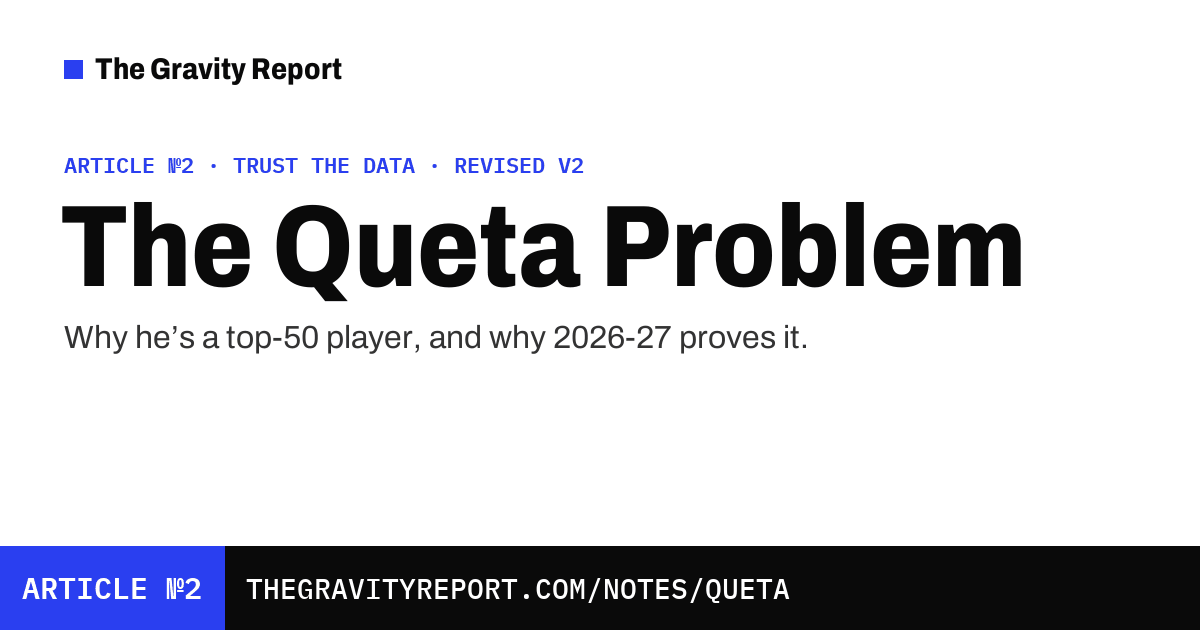
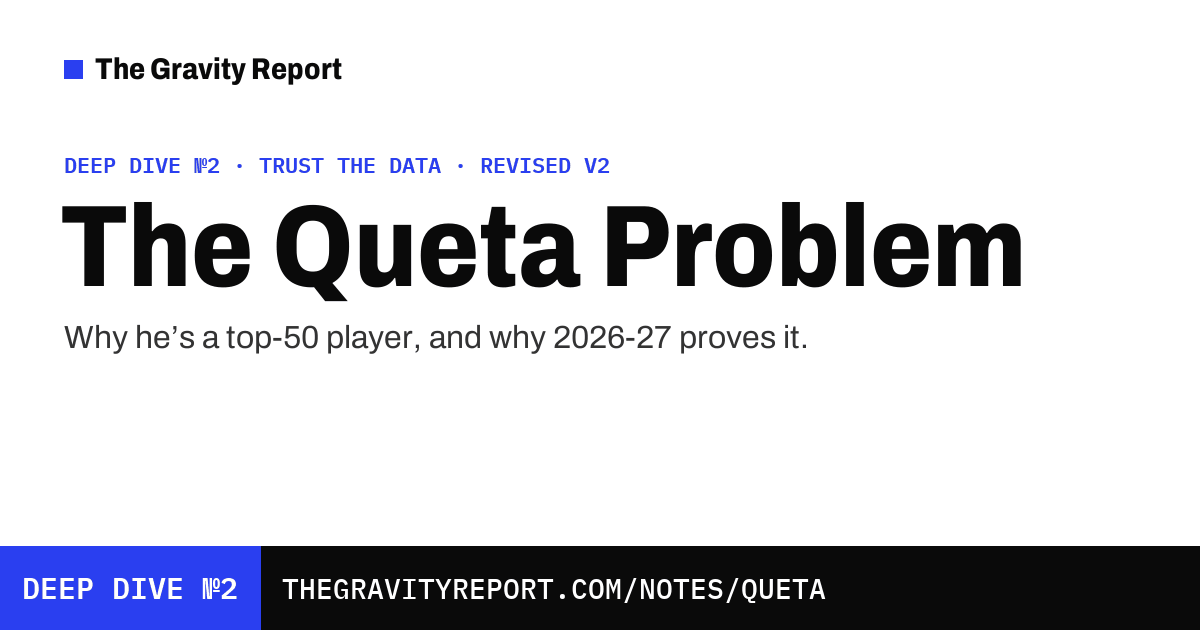
Two formats: Deep Dives (long, numbered) and Articles (short, web-first from content/short/*.md with probability bars); archive page split; labels on cards and kits
Published article text unchanged; only site labels change (Article №N -> Deep Dive №N in lists, cards and the homepage kicker).

Changed region(s): [[0.0, 0.8444, 0.6783, 1.0], [0.0308, 0.2413, 0.5242, 0.2714]]

diff --git a/articles/index.html b/articles/index.html
@@ -4,8 +4,8 @@
 <meta charset="utf-8">
 <meta name="viewport" content="width=device-width, initial-scale=1">
 <meta name="theme-color" content="#FFFFFF">
-<title>Articles — The Gravity Report</title>
-<meta name="description" content="Every Gravity Report article: plain-language NBA analysis with a registered forecast.">
+<title>Deep Dives and Articles — The Gravity Report</title>
+<meta name="description" content="Every Gravity Report piece: Deep Dives (long, with the full method) and Articles (short and fast), each with forecasts on the record.">
 <link rel="canonical" href="https://thegravityreport.com/articles/">
 <link rel="alternate" type="application/rss+xml" title="The Gravity Report" href="/feed.xml">
 <link rel="icon" href="/assets/favicon.svg" type="image/svg+xml">
@@ -14,8 +14,8 @@
 <link rel="stylesheet" href="/assets/site.css">
 <meta property="og:type" content="website">
 <meta property="og:site_name" content="The Gravity Report">
-<meta property="og:title" content="Articles — The Gravity Report">
-<meta property="og:description" content="Every Gravity Report article: plain-language NBA analysis with a registered forecast.">
+<meta property="og:title" content="Deep Dives and Articles — The Gravity Report">
+<meta property="og:description" content="Every Gravity Report piece: Deep Dives (long, with the full method) and Articles (short and fast), each with forecasts on the record.">
 <meta property="og:url" content="https://thegravityreport.com/articles/">
 <meta property="og:image" content="https://thegravityreport.com/cards/site.png">
 <meta property="og:image:width" content="1200">
@@ -27,10 +27,15 @@
 <div class="ticker"><a class="ticker-label" href="/the644/">THE 644</a><div class="ticker-view"><div class="ticker-track"><span>   <a href="/players/nikola-jokic/">1 JOKIĆ <b>97.8</b></a>   ·   <a href="/players/shai-gilgeous-alexander/">2 GILGEOUS-ALEXANDER <b>92.9</b></a>   ·   <a href="/players/victor-wembanyama/">3 WEMBANYAMA <b>85.7</b></a>   ·   <a href="/players/giannis-antetokounmpo/">4 ANTETOKOUNMPO <b>83.9</b></a>   ·   <a href="/players/luka-doncic/">5 DONČIĆ <b>83.0</b></a>   ·   <a href="/players/kawhi-leonard/">6 LEONARD <b>77.3</b></a>   ·   <a href="/players/cade-cunningham/">7 CUNNINGHAM <b>70.3</b></a>   ·   <a href="/players/karl-anthony-towns/">8 TOWNS <b>69.3</b></a>   ·   <a href="/players/donovan-mitchell/">9 MITCHELL <b>68.1</b></a>   ·   <a href="/players/tyrese-maxey/">10 MAXEY <b>67.3</b></a>   ·   <a href="/players/lamelo-ball/">11 BALL <b>66.8</b></a>   ·   <a href="/players/chet-holmgren/">12 HOLMGREN <b>66.6</b></a>   ·   <a href="/players/stephen-curry/">13 CURRY <b>66.5</b></a>   ·   <a href="/players/jalen-duren/">14 DUREN <b>65.9</b></a>   ·   <a href="/players/scottie-barnes/">15 BARNES <b>65.8</b></a></span><span aria-hidden="true">   1 JOKIĆ <b>97.8</b>   ·   2 GILGEOUS-ALEXANDER <b>92.9</b>   ·   3 WEMBANYAMA <b>85.7</b>   ·   4 ANTETOKOUNMPO <b>83.9</b>   ·   5 DONČIĆ <b>83.0</b>   ·   6 LEONARD <b>77.3</b>   ·   7 CUNNINGHAM <b>70.3</b>   ·   8 TOWNS <b>69.3</b>   ·   9 MITCHELL <b>68.1</b>   ·   10 MAXEY <b>67.3</b>   ·   11 BALL <b>66.8</b>   ·   12 HOLMGREN <b>66.6</b>   ·   13 CURRY <b>66.5</b>   ·   14 DUREN <b>65.9</b>   ·   15 BARNES <b>65.8</b></span></div></div></div>
 <main id="main">
 <div class="wrap">
-<section class="page-head"><div class="kicker">The archive</div><h1 class="h-xl">Articles</h1>
-<p class="lede">One player, one question, one forecast you can check. Every piece is an article typeset in LaTeX, not a research paper, and every revision ships with a public note.</p></section>
-<section class="sec"><div class="arch"><a href="/notes/kawhi/"><div class="meta">Article №4 · Oct 6, 2026 · 5 pages</div><div class="t">The Kawhi Anomaly</div><div class="d">The biggest rebound ever recorded by a 34-year-old.</div></a><a href="/notes/queta/"><div class="meta">Article №2 · Jul 10, 2026 · 10 pages</div><div class="t">The Queta Problem</div><div class="d">Why he’s a top-50 player, and why 2026-27 proves it.</div></a><a href="/notes/morant/"><div class="meta">Article №1 · Jul 10, 2026 · 12 pages</div><div class="t">The Rise and Fall of Ja Morant</div><div class="d">A statistical account, 2017–2026.</div></a><a href="/notes/spec/"><div class="meta">The Model · technical document · Jul 10, 2026 · 5 pages</div><div class="t">The GRAVITY Specification</div><div class="d">Every equation and every weight, published in full.</div></a></div>
+<section class="page-head"><div class="kicker">The archive</div><h1 class="h-xl">Everything we've published</h1>
+<p class="lede">Two formats. <b>Deep Dives</b> take one player and one question all the way down, typeset in LaTeX with the full method. <b>Articles</b> are short and fast. Both put their forecasts on the record, and every revision ships with a public note.</p>
+<div class="btn-row"><a class="btn-line" href="#deep-dives">Deep Dives (3)</a></div></section>
+<section class="sec" id="deep-dives"><div class="kicker">Deep Dives</div><h2 class="h-m">One player, one question, all the way down</h2>
+<p class="lede" style="margin:10px 0 18px;font-size:16px">Typeset in LaTeX, with the method, the tables and a registered forecast. Not research papers: independent analysis, revised in public.</p>
+<div class="arch"><a href="/notes/kawhi/"><div class="meta">Deep Dive №4 · Oct 6, 2026 · 5 pages</div><div class="t">The Kawhi Anomaly</div><div class="d">The biggest rebound ever recorded by a 34-year-old.</div></a><a href="/notes/queta/"><div class="meta">Deep Dive №2 · Jul 10, 2026 · 10 pages</div><div class="t">The Queta Problem</div><div class="d">Why he’s a top-50 player, and why 2026-27 proves it.</div></a><a href="/notes/morant/"><div class="meta">Deep Dive №1 · Jul 10, 2026 · 12 pages</div><div class="t">The Rise and Fall of Ja Morant</div><div class="d">A statistical account, 2017–2026.</div></a></div>
 <p class="muted" style="margin-top:18px"><b style="color:var(--ink)">On the desk:</b> Jalen Duren, Nikola Jokić, Cooper Flagg.</p></section>
+
+<section class="sec"><div class="kicker">The Model</div><div class="arch" style="margin-top:14px"><a href="/notes/spec/"><div class="meta">The Model · Version 3 · Jul 10, 2026 · 5 pages</div><div class="t">The GRAVITY Specification</div><div class="d">Every equation and every weight, published in full.</div></a></div></section>
 </div>
 </main>
 <footer class="site-foot" id="about-foot"><div class="wrap"><div class="fb"><b>The Gravity Report</b><br>GRAVITY: Game-Rate Adjusted Value, Impact, Talent, and Yield. How good, times how often.<br>Articles are typeset in LaTeX and revised in public. An article, not a research paper.</div><nav aria-label="Footer"><a href="/model/">Model</a><a href="/ledger/">Ledger</a><a href="/data/">Data</a><a href="/corrections/">Corrections</a><a href="/about/">About</a><a href="/feed.xml">RSS</a><a href="/classic/">The original inbox edition</a></nav></div></footer>

diff --git a/players/kawhi-leonard/index.html b/players/kawhi-leonard/index.html
@@ -39,7 +39,7 @@
 </section>
 <section class="sec"><h2 class="h-m" style="margin-top:0">The impact numbers</h2><p class="lede" style="margin-bottom:18px">The public stats behind the score, 2025–26 regular season (Basketball Reference).</p><div class="statgrid"><div><b>65</b><span>Games</span><em>Regular-season games played.</em></div><div><b>2,085</b><span>Minutes</span><em>Regular-season minutes played.</em></div><div><b>+8.0</b><span>Box Plus/Minus</span><em>Points per 100 possessions he adds over an average player, estimated from the box score. 0 is average.</em></div><div><b>+7.4</b><span>Offensive BPM</span><em>The offense half of Box Plus/Minus.</em></div><div><b>+0.6</b><span>Defensive BPM</span><em>The defense half of Box Plus/Minus.</em></div><div><b>5.3</b><span>VORP</span><em>Value over a replacement-level player, from Box Plus/Minus and minutes.</em></div><div><b>.212</b><span>Win Shares per 48</span><em>Wins credited to him per 48 minutes played.</em></div><div><b>.629</b><span>True shooting</span><em>Scoring efficiency that counts threes and free throws.</em></div><div><b>33.5%</b><span>Usage</span><em>Share of his team&#x27;s possessions he finishes while on the floor.</em></div><div><b>+14.5</b><span>On/off</span><em>His team&#x27;s point margin per 100 possessions with him on the court minus with him off. Basketball Reference, raw.</em></div></div></section>
 <section class="sec"><h2 class="h-m" style="margin-top:0">2025–26 season box</h2><div class="statgrid"><div><b>32.1</b><span>Minutes per game</span></div><div><b>27.9</b><span>Points per game</span></div><div><b>6.4</b><span>Rebounds per game</span></div><div><b>3.6</b><span>Assists per game</span></div><div><b>1.9</b><span>Steals per game</span></div><div><b>0.4</b><span>Blocks per game</span></div><div><b>50.5%</b><span>FG%</span><em>Share of field-goal attempts made.</em></div><div><b>38.7%</b><span>3P%</span><em>Share of three-point attempts made.</em></div><div><b>89.2%</b><span>FT%</span><em>Share of free throws made.</em></div></div></section>
-<section class="sec"><h2 class="h-m" style="margin-top:0">Featured in</h2><div class="arch"><a href="/notes/kawhi/"><div class="meta">№4 · Oct 6, 2026</div><div class="t">The Kawhi Anomaly</div><div class="d">The biggest rebound ever recorded by a 34-year-old.</div></a></div></section><section class="sec"><h2 class="h-m" style="margin-top:0">Open forecasts about him</h2><div class="lrows"><div class="lrow"><span class="lrow-id">K1</span><span class="lrow-claim">Kawhi Leonard stays top 8 in The 644</span><div class="pbar" role="img" aria-label="50% chance; the tick marks 50%, a coin flip"><div class="pbar-fill" style="width:50%"></div><div class="pbar-tick"></div></div><b class="pbar-pct">50%</b><span class="lrow-when">grades 2027-07</span></div><div class="lrow"><span class="lrow-id">K3</span><span class="lrow-claim">Kawhi finishes top 8 in Box Plus/Minus<small>players with 1,500+ minutes, Basketball Reference</small></span><div class="pbar" role="img" aria-label="30% chance; the tick marks 50%, a coin flip"><div class="pbar-fill" style="width:30%"></div><div class="pbar-tick"></div></div><b class="pbar-pct">30%</b><span class="lrow-when">grades 2027-04</span></div><div class="lrow"><span class="lrow-id">K4</span><span class="lrow-claim">Kawhi&#x27;s usage stays at 30% or more<small>Void under 1,000 minutes</small></span><div class="pbar" role="img" aria-label="60% chance; the tick marks 50%, a coin flip"><div class="pbar-fill" style="width:60%"></div><div class="pbar-tick"></div></div><b class="pbar-pct">60%</b><span class="lrow-when">grades 2027-04</span></div><div class="lrow"><span class="lrow-id">K5</span><span class="lrow-claim">Kawhi&#x27;s true shooting falls below .610<small>He shot .629 last season. Void under 1,000 minutes</small></span><div class="pbar" role="img" aria-label="65% chance; the tick marks 50%, a coin flip"><div class="pbar-fill" style="width:65%"></div><div class="pbar-tick"></div></div><b class="pbar-pct">65%</b><span class="lrow-when">grades 2027-04</span></div></div><a class="more" href="/ledger/">How forecasts are graded</a></section>
+<section class="sec"><h2 class="h-m" style="margin-top:0">Featured in</h2><div class="arch"><a href="/notes/kawhi/"><div class="meta">Deep Dive №4 · Oct 6, 2026</div><div class="t">The Kawhi Anomaly</div><div class="d">The biggest rebound ever recorded by a 34-year-old.</div></a></div></section><section class="sec"><h2 class="h-m" style="margin-top:0">Open forecasts about him</h2><div class="lrows"><div class="lrow"><span class="lrow-id">K1</span><span class="lrow-claim">Kawhi Leonard stays top 8 in The 644</span><div class="pbar" role="img" aria-label="50% chance; the tick marks 50%, a coin flip"><div class="pbar-fill" style="width:50%"></div><div class="pbar-tick"></div></div><b class="pbar-pct">50%</b><span class="lrow-when">grades 2027-07</span></div><div class="lrow"><span class="lrow-id">K3</span><span class="lrow-claim">Kawhi finishes top 8 in Box Plus/Minus<small>players with 1,500+ minutes, Basketball Reference</small></span><div class="pbar" role="img" aria-label="30% chance; the tick marks 50%, a coin flip"><div class="pbar-fill" style="width:30%"></div><div class="pbar-tick"></div></div><b class="pbar-pct">30%</b><span class="lrow-when">grades 2027-04</span></div><div class="lrow"><span class="lrow-id">K4</span><span class="lrow-claim">Kawhi&#x27;s usage stays at 30% or more<small>Void under 1,000 minutes</small></span><div class="pbar" role="img" aria-label="60% chance; the tick marks 50%, a coin flip"><div class="pbar-fill" style="width:60%"></div><div class="pbar-tick"></div></div><b class="pbar-pct">60%</b><span class="lrow-when">grades 2027-04</span></div><div class="lrow"><span class="lrow-id">K5</span><span class="lrow-claim">Kawhi&#x27;s true shooting falls below .610<small>He shot .629 last season. Void under 1,000 minutes</small></span><div class="pbar" role="img" aria-label="65% chance; the tick marks 50%, a coin flip"><div class="pbar-fill" style="width:65%"></div><div class="pbar-tick"></div></div><b class="pbar-pct">65%</b><span class="lrow-when">grades 2027-04</span></div></div><a class="more" href="/ledger/">How forecasts are graded</a></section>
 <section class="sec"><nav class="pn" aria-label="Neighbours in the ranking"><a href="/players/luka-doncic/">← #5 Luka Dončić</a><a href="/the644/">All 644</a><a href="/players/cade-cunningham/">#7 Cade Cunningham →</a></nav></section>
 </div>
 </main>

diff --git a/players/neemias-queta/index.html b/players/neemias-queta/index.html
@@ -39,7 +39,7 @@
 </section>
 <section class="sec"><h2 class="h-m" style="margin-top:0">The impact numbers</h2><p class="lede" style="margin-bottom:18px">The public stats behind the score, 2025–26 regular season (Basketball Reference).</p><div class="statgrid"><div><b>76</b><span>Games</span><em>Regular-season games played.</em></div><div><b>1,926</b><span>Minutes</span><em>Regular-season minutes played.</em></div><div><b>+2.8</b><span>Box Plus/Minus</span><em>Points per 100 possessions he adds over an average player, estimated from the box score. 0 is average.</em></div><div><b>+0.9</b><span>Offensive BPM</span><em>The offense half of Box Plus/Minus.</em></div><div><b>+2.0</b><span>Defensive BPM</span><em>The defense half of Box Plus/Minus.</em></div><div><b>2.4</b><span>VORP</span><em>Value over a replacement-level player, from Box Plus/Minus and minutes.</em></div><div><b>.224</b><span>Win Shares per 48</span><em>Wins credited to him per 48 minutes played.</em></div><div><b>.674</b><span>True shooting</span><em>Scoring efficiency that counts threes and free throws.</em></div><div><b>14.7%</b><span>Usage</span><em>Share of his team&#x27;s possessions he finishes while on the floor.</em></div><div><b>+9.8</b><span>On/off</span><em>His team&#x27;s point margin per 100 possessions with him on the court minus with him off. Basketball Reference, raw.</em></div></div><p class="small" style="margin-top:14px">2026 playoffs: 152 minutes, Box Plus/Minus +1.2.</p></section>
 <section class="sec"><h2 class="h-m" style="margin-top:0">2025–26 season box</h2><div class="statgrid"><div><b>25.3</b><span>Minutes per game</span></div><div><b>10.2</b><span>Points per game</span></div><div><b>8.4</b><span>Rebounds per game</span></div><div><b>1.7</b><span>Assists per game</span></div><div><b>0.8</b><span>Steals per game</span></div><div><b>1.3</b><span>Blocks per game</span></div><div><b>65.3%</b><span>FG%</span><em>Share of field-goal attempts made.</em></div><div><b>12.5%</b><span>3P%</span><em>Share of three-point attempts made.</em></div><div><b>70.3%</b><span>FT%</span><em>Share of free throws made.</em></div></div></section>
-<section class="sec"><h2 class="h-m" style="margin-top:0">Featured in</h2><div class="arch"><a href="/notes/queta/"><div class="meta">№2 · Jul 10, 2026</div><div class="t">The Queta Problem</div><div class="d">Twice waived, 39th pick, #41 in The 644. Why he&#x27;s a top-50 player.</div></a></div></section><section class="sec"><h2 class="h-m" style="margin-top:0">Open forecasts about him</h2><div class="lrows"><div class="lrow"><span class="lrow-id">2</span><span class="lrow-claim">Neemias Queta finishes top 50 in The 644</span><div class="pbar" role="img" aria-label="75% chance; the tick marks 50%, a coin flip"><div class="pbar-fill" style="width:75%"></div><div class="pbar-tick"></div></div><b class="pbar-pct">75%</b><span class="lrow-when">grades 2027-07</span></div><div class="lrow"><span class="lrow-id">2b</span><span class="lrow-claim">Queta finishes top 25 in The 644</span><div class="pbar" role="img" aria-label="40% chance; the tick marks 50%, a coin flip"><div class="pbar-fill" style="width:40%"></div><div class="pbar-tick"></div></div><b class="pbar-pct">40%</b><span class="lrow-when">grades 2027-07</span></div></div><a class="more" href="/ledger/">How forecasts are graded</a></section>
+<section class="sec"><h2 class="h-m" style="margin-top:0">Featured in</h2><div class="arch"><a href="/notes/queta/"><div class="meta">Deep Dive №2 · Jul 10, 2026</div><div class="t">The Queta Problem</div><div class="d">Twice waived, 39th pick, #41 in The 644. Why he&#x27;s a top-50 player.</div></a></div></section><section class="sec"><h2 class="h-m" style="margin-top:0">Open forecasts about him</h2><div class="lrows"><div class="lrow"><span class="lrow-id">2</span><span class="lrow-claim">Neemias Queta finishes top 50 in The 644</span><div class="pbar" role="img" aria-label="75% chance; the tick marks 50%, a coin flip"><div class="pbar-fill" style="width:75%"></div><div class="pbar-tick"></div></div><b class="pbar-pct">75%</b><span class="lrow-when">grades 2027-07</span></div><div class="lrow"><span class="lrow-id">2b</span><span class="lrow-claim">Queta finishes top 25 in The 644</span><div class="pbar" role="img" aria-label="40% chance; the tick marks 50%, a coin flip"><div class="pbar-fill" style="width:40%"></div><div class="pbar-tick"></div></div><b class="pbar-pct">40%</b><span class="lrow-when">grades 2027-07</span></div></div><a class="more" href="/ledger/">How forecasts are graded</a></section>
 <section class="sec"><nav class="pn" aria-label="Neighbours in the ranking"><a href="/players/domantas-sabonis/">← #40 Domantas Sabonis</a><a href="/the644/">All 644</a><a href="/players/ausar-thompson/">#42 Ausar Thompson →</a></nav></section>
 </div>
 </main>

diff --git a/players/ja-morant/index.html b/players/ja-morant/index.html
@@ -39,7 +39,7 @@
 </section>
 <section class="sec"><h2 class="h-m" style="margin-top:0">The impact numbers</h2><p class="lede" style="margin-bottom:18px">The public stats behind the score, 2025–26 regular season (Basketball Reference).</p><div class="statgrid"><div><b>20</b><span>Games</span><em>Regular-season games played.</em></div><div><b>569</b><span>Minutes</span><em>Regular-season minutes played.</em></div><div><b>−1.5</b><span>Box Plus/Minus</span><em>Points per 100 possessions he adds over an average player, estimated from the box score. 0 is average.</em></div><div><b>+0.5</b><span>Offensive BPM</span><em>The offense half of Box Plus/Minus.</em></div><div><b>−2.0</b><span>Defensive BPM</span><em>The defense half of Box Plus/Minus.</em></div><div><b>0.1</b><span>VORP</span><em>Value over a replacement-level player, from Box Plus/Minus and minutes.</em></div><div><b>.024</b><span>Win Shares per 48</span><em>Wins credited to him per 48 minutes played.</em></div><div><b>.521</b><span>True shooting</span><em>Scoring efficiency that counts threes and free throws.</em></div><div><b>32.5%</b><span>Usage</span><em>Share of his team&#x27;s possessions he finishes while on the floor.</em></div><div><b>+1.7</b><span>On/off</span><em>His team&#x27;s point margin per 100 possessions with him on the court minus with him off. Basketball Reference, raw.</em></div></div></section>
 <section class="sec"><h2 class="h-m" style="margin-top:0">2025–26 season box</h2><div class="statgrid"><div><b>28.5</b><span>Minutes per game</span></div><div><b>19.5</b><span>Points per game</span></div><div><b>3.3</b><span>Rebounds per game</span></div><div><b>8.1</b><span>Assists per game</span></div><div><b>1.0</b><span>Steals per game</span></div><div><b>0.3</b><span>Blocks per game</span></div><div><b>41.0%</b><span>FG%</span><em>Share of field-goal attempts made.</em></div><div><b>23.5%</b><span>3P%</span><em>Share of three-point attempts made.</em></div><div><b>89.7%</b><span>FT%</span><em>Share of free throws made.</em></div></div></section>
-<section class="sec"><h2 class="h-m" style="margin-top:0">Featured in</h2><div class="arch"><a href="/notes/morant/"><div class="meta">№1 · Jul 10, 2026</div><div class="t">The Rise and Fall of Ja Morant</div><div class="d">From the 97th percentile to 79 of 246 games.</div></a></div></section>
+<section class="sec"><h2 class="h-m" style="margin-top:0">Featured in</h2><div class="arch"><a href="/notes/morant/"><div class="meta">Deep Dive №1 · Jul 10, 2026</div><div class="t">The Rise and Fall of Ja Morant</div><div class="d">From the 97th percentile to 79 of 246 games.</div></a></div></section>
 <section class="sec"><nav class="pn" aria-label="Neighbours in the ranking"><a href="/players/tari-eason/">← #139 Tari Eason</a><a href="/the644/">All 644</a><a href="/players/coby-white/">#141 Coby White →</a></nav></section>
 </div>
 </main>

diff --git a/index.html b/index.html
@@ -38,7 +38,7 @@
 <div class="wrap">
 <section class="sec"><div class="split">
 <article class="col-2">
-<div class="kicker">Article №4 · Preseason 2026–27</div>
+<div class="kicker">Deep Dive №4 · Preseason 2026–27</div>
 <h1 class="h-xl">The Kawhi Anomaly</h1>
 <p class="dek">The biggest rebound ever recorded by a 34-year-old. Late surges usually fade. Which half of his will last?</p>
 <div class="lead-cols"><p>Kawhi Leonard went from a good starter to the fifth-best player in the league per minute, at 34. No player 34 or older has ever jumped that far in one season.</p><p>Eight players have surged to star level after 31. None kept three-quarters of the gain the next year. His bigger role usually lasts. His hot shooting usually doesn&#x27;t.</p></div>
@@ -64,7 +64,7 @@
 <div class="kicker">The archive</div>
 <h2 class="h-m">Articles</h2>
 <p class="lede" style="margin:10px 0 18px;font-size:16px">Written in plain language, typeset in LaTeX, revised in public.</p>
-<div class="arch"><a href="/notes/kawhi/"><div class="meta">№4 · Oct 6, 2026</div><div class="t">The Kawhi Anomaly</div><div class="d">The biggest rebound ever recorded by a 34-year-old.</div></a><a href="/notes/queta/"><div class="meta">№2 · Jul 10, 2026</div><div class="t">The Queta Problem</div><div class="d">Twice waived, 39th pick, #41 in The 644. Why he&#x27;s a top-50 player.</div></a><a href="/notes/morant/"><div class="meta">№1 · Jul 10, 2026</div><div class="t">The Rise and Fall of Ja Morant</div><div class="d">From the 97th percentile to 79 of 246 games.</div></a><a href="/notes/spec/"><div class="meta">The Model · Version 3</div><div class="t">The GRAVITY Specification</div><div class="d">Every equation and every weight, published in full.</div></a></div>
+<div class="arch"><a href="/notes/kawhi/"><div class="meta">Deep Dive №4 · Oct 6, 2026</div><div class="t">The Kawhi Anomaly</div><div class="d">The biggest rebound ever recorded by a 34-year-old.</div></a><a href="/notes/queta/"><div class="meta">Deep Dive №2 · Jul 10, 2026</div><div class="t">The Queta Problem</div><div class="d">Twice waived, 39th pick, #41 in The 644. Why he&#x27;s a top-50 player.</div></a><a href="/notes/morant/"><div class="meta">Deep Dive №1 · Jul 10, 2026</div><div class="t">The Rise and Fall of Ja Morant</div><div class="d">From the 97th percentile to 79 of 246 games.</div></a><a href="/notes/spec/"><div class="meta">The Model · Version 3</div><div class="t">The GRAVITY Specification</div><div class="d">Every equation and every weight, published in full.</div></a></div>
 <p style="margin:16px 0 0;font-size:15px" class="muted"><b style="color:var(--ink)">On the desk:</b> Jalen Duren, Nikola Jokić, Cooper Flagg.</p>
 </div>
 </div></section>

diff --git a/assets/site.css b/assets/site.css
@@ -230,3 +230,12 @@ a:hover{color:var(--accent)}
   .rank-list .nm{font-size:17px}
   .p-score{text-align:left}
 }
+
+/* ---------- short articles ---------- */
+.paper.short h2{margin-top:44px;padding-top:18px;border-top:2px solid var(--ink)}
+.call{padding:16px 0;border-bottom:1px solid var(--rule-lt)}
+.call-claim{font-size:19px;font-weight:700;line-height:1.35}
+.call .pbar-wrap{max-width:560px}
+.call-note{margin:8px 0 0;font-size:16px;line-height:1.6;color:var(--ink2)}
+sup a.src{font-family:var(--mono);font-size:11px;text-decoration:none;color:var(--accent);padding:0 1px}
+sup a.src:hover{text-decoration:underline}

diff --git a/scripts/build_site.py b/scripts/build_site.py
@@ -27,6 +27,63 @@ def load(rel):
 
 SITE = load("content/site.json")
 ARTICLES = load("content/articles.json")
+
+
+def read_short(path):
+    """A short article: a JSON header between '---' lines, then a tiny markup:
+    '## Heading', blank-line-separated paragraphs, and '!call 25% | claim | note' lines.
+    Inline sources: [n](https://...) become superscript links."""
+    text = open(path, encoding="utf-8").read()
+    _, head, body = text.split("---\n", 2)
+    a = json.loads(head)
+    a.setdefault("kind", "article")
+    a["format"] = "short"
+    a["web"] = f"/articles/{a['slug']}/"
+    blocks, para = [], []
+
+    def flush():
+        if para:
+            blocks.append({"t": "p", "text": " ".join(para)})
+            para.clear()
+    for line in body.splitlines():
+        ln = line.strip()
+        if not ln:
+            flush()
+        elif ln.startswith("## "):
+            flush()
+            blocks.append({"t": "h2", "text": ln[3:]})
+        elif ln.startswith("!call "):
+            flush()
+            pct, claim, note = (x.strip() for x in ln[6:].split("|", 2))
+            blocks.append({"t": "call", "p": int(pct.rstrip("%")), "claim": claim, "note": note})
+        else:
+            para.append(ln)
+    flush()
+    a["blocks"] = blocks
+    words = sum(len(re.sub(r"\[(\d+)\]\([^)]*\)", "", b.get("text", "") + " " + b.get("claim", "") + " " + b.get("note", "")).split())
+                for b in blocks)
+    a["read_min"] = max(1, round(words / 220))
+    a.setdefault("pages", None)
+    return a
+
+
+def load_shorts():
+    out = []
+    dirs = [os.path.join(ROOT, "content", "short")]
+    if os.environ.get("GR_DRAFTS"):
+        dirs.append(os.environ["GR_DRAFTS"])
+    for d in dirs:
+        if os.path.isdir(d):
+            for f in sorted(os.listdir(d)):
+                if f.endswith(".md"):
+                    out.append(read_short(os.path.join(d, f)))
+    return out
+
+
+_ALL = ARTICLES + load_shorts()
+# newest first; same-day pieces by number, highest first; the model doc last
+ARTICLES = (sorted([a for a in _ALL if a["kind"] == "article"], key=lambda a: (a["date"], a.get("n") or 0), reverse=True)
+            + [a for a in _ALL if a["kind"] != "article"])
 LEDGER = load("content/ledger.json")
 T644 = load("content/the644.json")
 MSGS = load("content/legacy/messages.json")["M"]
@@ -317,13 +374,24 @@ def subscribe_block():
             f'<p class="lede" style="margin-top:10px">{e(SITE["newsletter_note"])}</p></div>{form}</div></section>')
 
 
+def series_label(a):
+    if a["kind"] != "article":
+        return "The Model · Version 3"
+    if a.get("format") == "short":
+        return "Article"
+    return f'Deep Dive №{a["n"]}'
+
+
+def length_label(a):
+    if a.get("format") == "short":
+        return f'{a["read_min"]}-minute read'
+    return f'{a["pages"]} pages'
+
+
 def archive_links(items):
     out = []
     for a in items:
-        if a["kind"] == "article":
-            meta = f'№{a["n"]} · {short_date(a["date"])}'
-        else:
-            meta = "The Model · Version 3"
+        meta = f'{series_label(a)} · {short_date(a["date"])}' if a["kind"] == "article" else series_label(a)
         out.append(f'<a href="{a["web"]}"><div class="meta">{e(meta)}</div><div class="t">{e(a["title"])}</div>'
                    f'<div class="d">{e(a["teaser"])}</div></a>')
     return '<div class="arch">' + "".join(out) + "</div>"
@@ -341,12 +409,22 @@ def kawhi_stats(p):
 # ---------------------------------------------------------------- pages
 
 def build_home():
-    lead = next(a for a in ARTICLES if a["kind"] == "article")  # newest first in articles.json
-    sp = BY_NAME[lead["stat_player"]]
-    box = "".join(pitem(ledger_entry(i).get("box", ledger_entry(i)["claim"]), ledger_entry(i)["p"])
-                  for i in lead["ledger"])
-    lead_cols = "".join(f"<p>{e(t)}</p>" for t in lead["lead"])
-    top10 = "".join(rank_li(p, hl=(p["n"] == sp["n"])) for p in PLAYERS[:10])
+    lead = next(a for a in ARTICLES if a["kind"] == "article")  # newest piece of either format
+    sp = BY_NAME.get(lead.get("stat_player", ""))
+    if lead.get("format") == "short":
+        calls = [b for b in lead["blocks"] if b["t"] == "call"][:4]
+        box = "".join(pitem(SRC_RE.sub("", b["claim"]), b["p"]) for b in calls)
+        paras = lead.get("lead") or [b["text"] for b in lead["blocks"] if b["t"] == "p"][:1]
+        lead_cols = "".join(f"<p>{inline(t)}</p>" for t in paras)
+        registered = lead["date"]
+    else:
+        box = "".join(pitem(ledger_entry(i).get("box", ledger_entry(i)["claim"]), ledger_entry(i)["p"])
+                      for i in lead["ledger"])
+        lead_cols = "".join(f"<p>{e(t)}</p>" for t in lead["lead"])
+        registered = ledger_entry(lead["ledger"][0])["registered"]
+    lead_kicker = lead.get("kicker") or f'Article · {short_date(lead["date"])}'
+    lead_len = length_label(lead)
+    top10 = "".join(rank_li(p, hl=(sp is not None and p["n"] == sp["n"])) for p in PLAYERS[:10])
     rows = sorted(LEDGER["entries"], key=lambda x: (-x["p"], x["id"]))
     n_open = sum(1 for x in LEDGER["entries"] if x["status"] == "open")
     n_graded = len(LEDGER["entries"]) - n_open
@@ -354,17 +432,17 @@ def build_home():
     body = f"""<div class="wrap">
 <section class="sec"><div class="split">
 <article class="col-2">
-<div class="kicker">{e(lead['kicker'])}</div>
+<div class="kicker">{e(lead_kicker)}</div>
 <h1 class="h-xl">{e(lead['title'])}</h1>
-<p class="dek">{e(lead['home_dek'])}</p>
+<p class="dek">{e(lead.get('home_dek') or lead['dek'])}</p>
 <div class="lead-cols">{lead_cols}</div>
 <div class="btn-row"><a class="btn-dark" href="{lead['web']}">Read the article {ARROW}</a>
-<span class="small">{lead['pages']} pages · web and <a href="{lead['pdf']}">PDF</a> · {short_date(lead['date'])}</span></div>
+<span class="small">{e(lead_len)}{(' · web and <a href="' + lead['pdf'] + '">PDF</a>') if lead.get('pdf') else ''} · {short_date(lead['date'])}</span></div>
 </article>
 <aside class="col-1" style="display:flex;flex-direction:column;gap:28px">
 <div class="box"><div class="box-title">What we think happens next</div>{pscale()}<div class="pitems">{box}</div>
-<p class="small" style="margin:18px 0 0">Registered {short_date(ledger_entry(lead['ledger'][0])['registered'])}. Graded by Brier score.</p></div>
-{kawhi_stats(sp)}
+<p class="small" style="margin:18px 0 0">Registered {short_date(registered)}. Graded by Brier score.</p></div>
+{kawhi_stats(sp) if sp and lead.get('format') != 'short' else ''}
 </aside>
 </div></section>
 
@@ -408,21 +486,73 @@ def build_home():
 
 
 def build_articles_index():
-    items = []
-    for a in ARTICLES:
-        label = f'Article №{a["n"]}' if a["kind"] == "article" else "The Model · technical document"
-        items.append(
-            f'<a href="{a["web"]}"><div class="meta">{e(label)} · {short_date(a["date"])} · {a["pages"]} pages</div>'
-            f'<div class="t">{e(a["title"])}</div><div class="d">{e(a["dek"])}</div></a>')
+    def items(rows):
+        return "".join(
+            f'<a href="{a["web"]}"><div class="meta">{e(series_label(a))} · {short_date(a["date"])} · {e(length_label(a))}</div>'
+            f'<div class="t">{e(a["title"])}</div><div class="d">{e(a["dek"])}</div></a>' for a in rows)
+    deep = [a for a in ARTICLES if a.get("format") == "deep"]
+    short = [a for a in ARTICLES if a.get("format") == "short"]
+    model = [a for a in ARTICLES if a["kind"] != "article"]
+    short_sec = (f'<section class="sec" id="articles-short"><div class="kicker">Articles</div><h2 class="h-m">Short and fast</h2>'
+                 '<p class="lede" style="margin:10px 0 18px;font-size:16px">Quick takes and rapid-fire calls. A few minutes each, every call still on the record.</p>'
+                 f'<div class="arch">{items(short)}</div></section>') if short else ""
     body = f"""<div class="wrap">
-<section class="page-head"><div class="kicker">The archive</div><h1 class="h-xl">Articles</h1>
-<p class="lede">One player, one question, one forecast you can check. Every piece is an article typeset in LaTeX, not a research paper, and every revision ships with a public note.</p></section>
-<section class="sec"><div class="arch">{''.join(items)}</div>
+<section class="page-head"><div class="kicker">The archive</div><h1 class="h-xl">Everything we've published</h1>
+<p class="lede">Two formats. <b>Deep Dives</b> take one player and one question all the way down, typeset in LaTeX with the full method. <b>Articles</b> are short and fast. Both put their forecasts on the record, and every revision ships with a public note.</p>
+<div class="btn-row"><a class="btn-line" href="#deep-dives">Deep Dives ({len(deep)})</a>{f'<a class="btn-line" href="#articles-short">Articles ({len(short)})</a>' if short else ''}</div></section>
+<section class="sec" id="deep-dives"><div class="kicker">Deep Dives</div><h2 class="h-m">One player, one question, all the way down</h2>
+<p class="lede" style="margin:10px 0 18px;font-size:16px">Typeset in LaTeX, with the method, the tables and a registered forecast. Not research papers: independent analysis, revised in public.</p>
+<div class="arch">{items(deep)}</div>
 <p class="muted" style="margin-top:18px"><b style="color:var(--ink)">On the desk:</b> {e(', '.join(SITE['on_the_desk']))}.</p></section>
+{short_sec}
+<section class="sec"><div class="kicker">The Model</div><div class="arch" style="margin-top:14px">{items(model)}</div></section>
 </div>"""
-    write("articles/index.html", page("/articles/", "Articles — The Gravity Report",
-                                      "Every Gravity Report article: plain-language NBA analysis with a registered forecast.",
+    write("articles/index.html", page("/articles/", "Deep Dives and Articles — The Gravity Report",
+                                      "Every Gravity Report piece: Deep Dives (long, with the full method) and Articles (short and fast), each with forecasts on the record.",
                                       body, active="/articles/"))
+
+
+SRC_RE = re.compile(r"\[(\d+)\]\((https?://[^)\s]+)\)")
+
+
+def inline(text):
+    """Escape, then turn [n](url) source markers into superscript links."""
+    out, last = [], 0
+    for m in SRC_RE.finditer(text):
+        out.append(e(text[last:m.start()]))
+        out.append(f'<sup><a class="src" href="{e(m.group(2))}" title="Source {m.group(1)}">{m.group(1)}</a></sup>')
+        last = m.end()
+    out.append(e(text[last:]))
+    return "".join(out)
+
+
+def build_short(a):
+    parts, scaled = [], False
+    for b in a["blocks"]:
+        if b["t"] in ("h2", "call") and not scaled:
+            parts.append(pscale())
+            scaled = True
+        if b["t"] == "h2":
+            parts.append(f'<h2>{inline(b["text"])}</h2>')
+        elif b["t"] == "p":
+            parts.append(f'<p>{inline(b["text"])}</p>')
+        else:
+            parts.append(f'<div class="call"><div class="call-claim">{inline(b["claim"])}</div>'
+                         f'<div class="pbar-wrap">{pbar(b["p"])}<b class="pbar-pct">{b["p"]}%</b></div>'
+                         f'<p class="call-note">{inline(b["note"])}</p></div>')
+    n_calls = sum(1 for b in a["blocks"] if b["t"] == "call")
+    body = f"""<div class="wrap"><article class="paper short">
+<div class="kicker">Article · {short_date(a['date'])} · {a['read_min']}-minute read</div>
+<h1>{e(a['title'])}</h1>
+<div class="subtitle">{e(a['dek'])}</div>
+<div class="byline"><b>Francesco Freedman</b> · The Gravity Report · {n_calls} calls, every one in the <a href="/ledger/">Forecast Ledger</a></div>
+{''.join(parts)}
+<p class="small" style="margin-top:28px">Registered {short_date(a['date'])}. Every call is scored by Brier score in the <a href="/ledger/">Forecast Ledger</a>. An article, not a research paper.</p>
+</article></div>"""
+    write(f"articles/{a['slug']}/index.html",
+          page(a["web"], f"{a['title']} — The Gravity Report", a["dek"], body, active="/articles/",
+               og_image=a.get("card", "/cards/site.png"), og_type="article", depth=True,
+               extra_head=f'<meta property="article:published_time" content="{e(a["date"])}">\n'))
 
 
 # legacy links inside article bodies -> new homes (link text stays true)
@@ -834,6 +964,9 @@ def build_sitemap():
 def main():
     build_home()
     build_articles_index()
+    for a in ARTICLES:
+        if a.get("format") == "short":
+            build_short(a)
     build_web_edition("kawhi", "notes/kawhi/", "/articles/")
     build_web_edition("queta", "notes/queta/", "/articles/")
     build_web_edition("morant", "notes/morant/", "/articles/")

diff --git a/scripts/make-cards.py b/scripts/make-cards.py
@@ -79,10 +79,18 @@ def main():
               "One model, every player, every forecast on the record.", "THE 644", top)
     site_card("cards/the644.png", f"THE 644 · {site['edition']['name'].upper()} EDITION",
               "The 644", "Every NBA player, one number. How good, times how often.", "THE 644", top)
+    # short articles: JSON header of content/short/*.md (+ GR_DRAFTS for local previews)
+    for d in [os.path.join(ROOT, "content", "short"), os.environ.get("GR_DRAFTS", "")]:
+        if d and os.path.isdir(d):
+            for f in sorted(os.listdir(d)):
+                if f.endswith(".md"):
+                    h = json.loads(open(os.path.join(d, f), encoding="utf-8").read().split("---\n", 2)[1])
+                    h.update(kind="article", format="short", web=f"/articles/{h['slug']}/", kicker=f"ARTICLE · {h['date']}")
+                    arts.append(h)
     for a in arts:
         if a["kind"] == "article":
             kicker = a["kicker"].upper()
-            label = f"ARTICLE №{a['n']}"
+            label = "ARTICLE" if a.get("format") == "short" else f"DEEP DIVE №{a['n']}"
         else:
             kicker = "THE MODEL · VERSION 3 · TECHNICAL DOCUMENT"
             label = "THE MODEL"

diff --git a/scripts/social/make_kit.py b/scripts/social/make_kit.py
@@ -285,7 +285,7 @@ def build_article_kit(slug, date, outdir=None, images=True):
         outdir = os.path.join(ROOT, "social", "kits", f"{date}-article-{slug}")
     write_kit(kit, outdir)
     if images:
-        label = f"ARTICLE №{a['n']}"
+        label = "ARTICLE" if a.get("format") == "short" else f"DEEP DIVE №{a['n']}"
         landscape(os.path.join(outdir, "card-1200x675.png"), a["kicker"].upper(), a["title"], a["dek"], label,
                   "THEGRAVITYREPORT.COM" + a["web"].upper().rstrip("/"))
         ig_cover(os.path.join(outdir, "ig-1080x1350-1.png"), a["kicker"].upper(), a["title"], a["dek"], label, "1/4")

diff --git a/README.md b/README.md
@@ -39,7 +39,12 @@ python3 -m http.server 8090
 Then open http://localhost:8090. The API and posting queue only run on Cloudflare
 (or `npx wrangler dev`).
 
-## Publishing a new article
+## Two formats
+
+- **Deep Dives** (long): LaTeX PDF + web edition, numbered (Deep Dive №N), listed in `content/articles.json` with `"format": "deep"`. Steps below.
+- **Articles** (short, e.g. rapid-fire predictions): one file, `content/short/<slug>.md`, made of a JSON header between `---` lines, then `## Heading`, plain paragraphs, and `!call 25% | claim | note` lines (sources as `[n](url)`). The build makes `/articles/<slug>/` with probability bars. No LaTeX, no number.
+
+## Publishing a new Deep Dive
 
 1. Compile the PDF (`tectonic`), put PDF + TeX in `papers/`, run `scripts/render-pages.sh`.
 2. Add the article to `content/articles.json` (newest first; the first `article` entry is the homepage lead),
